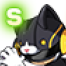
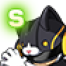
fix: Black_S 이미지 수정본 반영

diff --git a/GMS_WEEK_BOSS/index.html b/GMS_WEEK_BOSS/index.html
@@ -850,7 +850,7 @@
 <!-- <script src="hyperstat.js?v=20260901a"></script> 하이퍼스탯 최적화 — 데이터 검증 전까지 내림 -->
 <script src="liberation.js?v=20260901a"></script>
 <script src="starforce_sim.js?v=20260927a"></script>
-<script src="cube.js?v=20260927a"></script><script src="familiar.js?v=20260926a"></script><script src="soulsim.js?v=20260927j"></script><script src="polish.js?v=20260927b"></script><script src="data_frontier.js?v=20260825g"></script><script src="frontier.js?v=20260901b"></script><script src="meundi.js?v=20261003q"></script>
+<script src="cube.js?v=20260927a"></script><script src="familiar.js?v=20260926a"></script><script src="soulsim.js?v=20260927j"></script><script src="polish.js?v=20260927b"></script><script src="data_frontier.js?v=20260825g"></script><script src="frontier.js?v=20260901b"></script><script src="meundi.js?v=20261003r"></script>
 <script src="addoption.js?v=20261002a"></script><script src="bosshp.js?v=20260924b"></script>
 <script src="serverstatus.js?v=20260925a"></script><script src="vendor/quill/quill.min.js?v=1.3.7"></script><script src="community.js?v=20260826l"></script>
 <script src="dailytasks.js?v=20260826c"></script>

diff --git a/GMS_WEEK_BOSS/meundi.js b/GMS_WEEK_BOSS/meundi.js
@@ -127,7 +127,7 @@ function _muSquadHtml(code) {
     const rank = t[0], lv = t.slice(1);
     const cls = ['r', 'k', 'y'][i];
     const team = ['Red', 'Black', 'Yellow'][i];
-    return `<div class="mu-u mu-u--${cls}"><img src="images/meundi/${team}_${rank}.png?v=20261003b" alt="${rank}" width="46" height="46"><span${lv === '0' ? ' class="mu-zero"' : ''}>Lv. ${lv}</span></div>`;
+    return `<div class="mu-u mu-u--${cls}"><img src="images/meundi/${team}_${rank}.png?v=20261003c" alt="${rank}" width="46" height="46"><span${lv === '0' ? ' class="mu-zero"' : ''}>Lv. ${lv}</span></div>`;
   }).join('');
   return `<div class="mu-card${shaky ? ' mu-card--shaky' : ''}${rep ? ' mu-card--rep' : ''}"${shaky ? ' title="근소하거나 결과가 갈린 조합"' : rep ? ' title="단일 제보"' : note ? ` title="${note}"` : ''}><div class="mu-units">${tiles}</div></div>`;
 }
